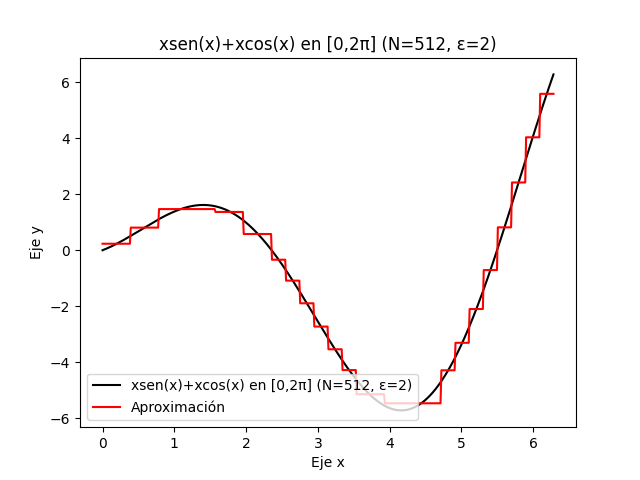
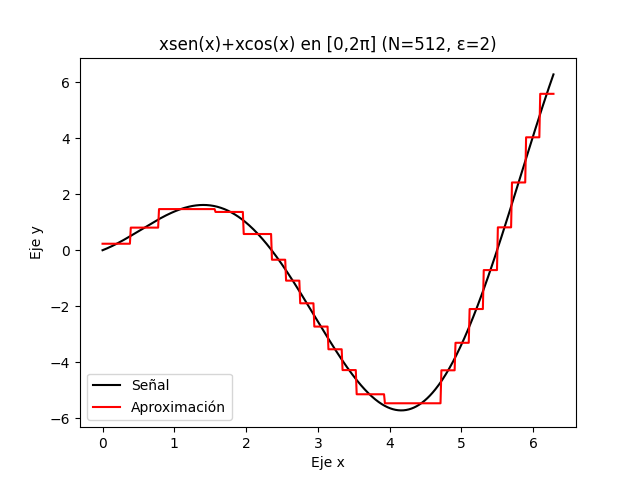
reestructurando

Changed region(s): [[0.1875, 0.7812, 0.6562, 0.875]]

diff --git a/signal_code/tfg_signal.py b/signal_code/tfg_signal.py
@@ -29,6 +29,10 @@ def haar_transform(list, offset):
         return haar_transform(avgs, difs + offset)
 
     else:
+        for i in range(len(list)):
+            list[i] = list[i] / math.sqrt(len(list)+len(offset))
+        for i in range(len(offset)):
+            offset[i] = offset[i] / math.sqrt(len(list)+len(offset))
         return list + offset
 
 """ Calcula la transformada inversa de Haar. Devuelve la lista resultante.
@@ -48,6 +52,8 @@ def reverse_haar(front, the_rest, power):
         power += 1
         return reverse_haar(reverse, the_rest, power)
     else:
+        for i in range(len(reverse)):
+            reverse[i] = reverse[i] * math.sqrt(len(reverse))
         return reverse
 
 """ Cuenta el número de elementos distintos de cero de una señal
@@ -279,7 +285,7 @@ def experiment(signal_f, dom, N, fun, param, signal_title="", print_mat=False, s
 
     # Construimos la gráfica
     if(show_sig or save_sig):
-        plt.plot(puntos, signal, 'k', label=signal_title)
+        plt.plot(puntos, signal, 'k', label="Señal")
         plt.plot(puntos, rev_signal, 'r', label="Aproximación")
         plt.xlabel("Eje x")
         plt.ylabel("Eje y")
@@ -614,6 +620,11 @@ def xsen_plus_xcos(x):
 """ Test con señales
 """
 def test(func):
+    li = np.array([12, 12, 12, 12, 8, 8, 10, 10])
+    ha = haar_transform(li,[])
+    re = reverse_haar(ha[:1],ha[1:],0)
+    print(ha)
+    print(re)
     experiment(func, [0, 2*np.pi], 512, thresholding, 0.1, "Señal en [0,2π] (ε=0.1)")
     experiment(func, [0, 2*np.pi], 512, thresholding, 0.5, "Señal en [0,2π] (ε=0.5)")
     experiment(func, [0, 2*np.pi], 512, thresholding, 2, "Señal en [0,2π] (ε=2)")
@@ -626,15 +637,15 @@ def test(func):
 
 """ Programa principal. """
 def main():
-    #test(xsen_plus_xcos)
+    test(xsen_plus_xcos)
     N = 6
     list = [['f', 'Dom(f)', 'N', 'ε', 'Descartes (%)', 'Error medio', 'Factor de compresión'],
-         ['sen', '[0,2π]', 512, 0.1],
-         ['sen', '[0,2π]', 512, 0.5],
-         ['sen', '[0,2π]', 512, 2],
-         ['cos', '[0,2π]', 512, 0.1],
-         ['cos', '[0,2π]', 512, 0.5],
-         ['cos', '[0,2π]', 512, 2]]
+         ['sen(x)', '[0,2π]', 512, 0.1],
+         ['sen(x)', '[0,2π]', 512, 0.5],
+         ['sen(x)', '[0,2π]', 512, 2],
+         ['xsen(x)+xcos(x)', '[0,2π]', 512, 0.1],
+         ['xsen(x)+xcos(x)', '[0,2π]', 512, 0.5],
+         ['xsen(x)+xcos(x)', '[0,2π]', 512, 2]]
 
     per = np.zeros(N); err = np.zeros(N); fac = np.zeros(N)
 
